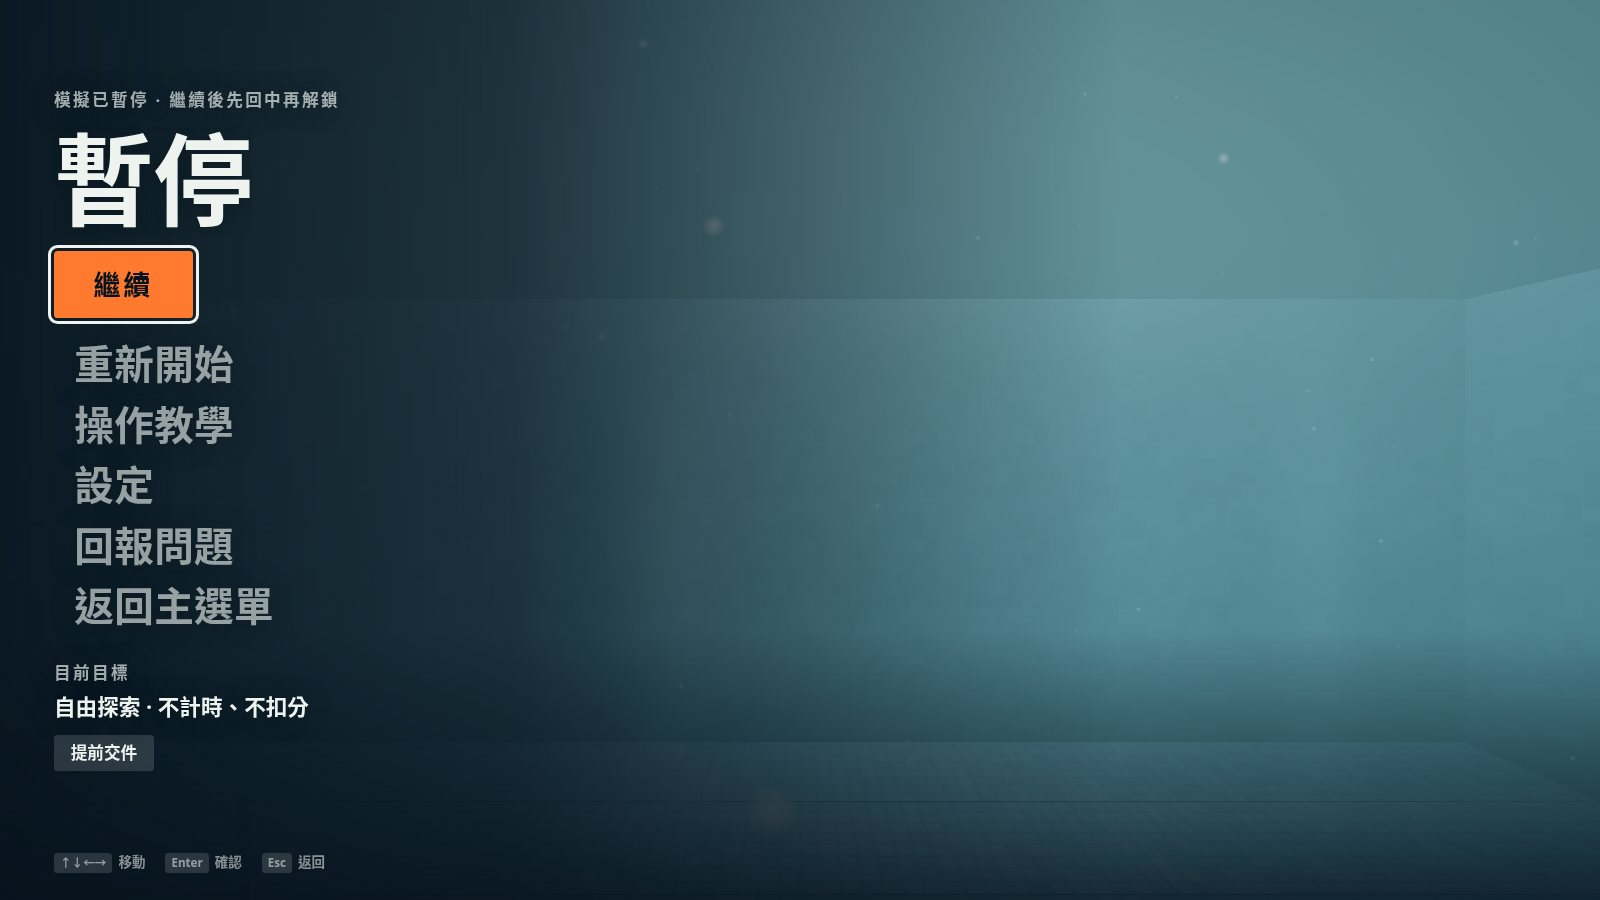
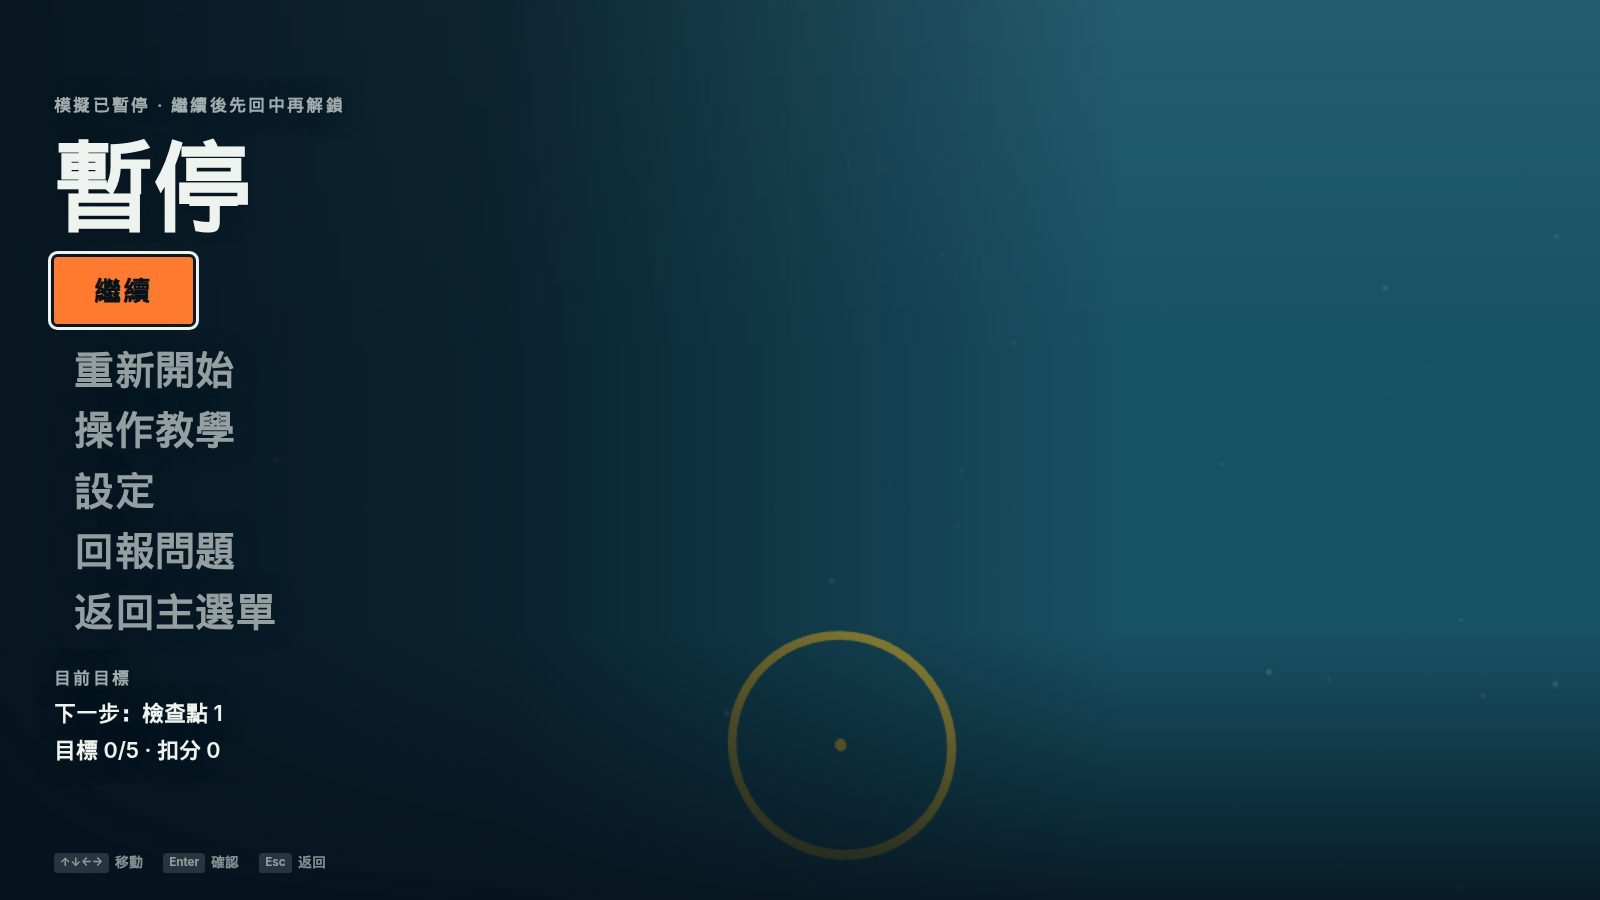
R8: retake menu shots; strip kelp clutter; documentary cable dressing
Journal backdrop drops kelp/rock habitat that read as green plates, keeps
working umbilicals and a deck-crew figure when the worker model is ready,
enlarges first-level entries and locked-card silhouettes, and refreshes
before/after plus four-language contact sheets.

diff --git a/simulator/viewer/menu/stage.js b/simulator/viewer/menu/stage.js
@@ -8,8 +8,7 @@ import { placeSceneModelLow } from '../scene_models.js';
 import { applyVehicleSticker } from '../vehicle_stickers.js';
 import { automaticSceneDetail, configureRenderQuality, updateRenderQuality } from '../render_quality.js';
 import { createFrameGate } from '../prefs/display.js';
-import { applyPose, makePerson, POSES as CREW_POSES } from '../figures.js';
-
+import { Humanoid } from '../humanoid.js';
 // Camera per screen: eye offset from the vehicle (metres, three.js axes); shift moves the vehicle right of
 // the screen centre by that many metres (the menus sit on the left), lift raises the look point.
 const POSES = {
@@ -64,7 +63,7 @@ function disposeTree(group) {
   group.clear();
 }
 
-/** Drop loose seabed rocks from the journal shot so piles and the vehicle stay the subject. */
+/** Drop habitat clutter and loose rocks from the journal shot so piles / walls and the vehicle stay the subject. */
 function journalWorld(world) {
   const obstacles = (world.obstacles || []).filter(function keep(obstacle) {
     if (obstacle.kind === 'habitat') return false;
@@ -72,10 +71,11 @@ function journalWorld(world) {
     if (obstacle.kind === 'toe_rock' || obstacle.kind === 'scour_rock') return false;
     return true;
   });
+  // Kelp and seagrass read as flat green slabs under soft lighting; keep fish only.
   const habitat = world.habitat ? {
     ...world.habitat,
     entities: (world.habitat.entities || []).filter(function living(entity) {
-      return entity.kind !== 'rock';
+      return !['rock', 'kelp', 'seagrass', 'seastar'].includes(entity.kind);
     }),
   } : world.habitat;
   return {...world, obstacles, habitat};
@@ -162,6 +162,13 @@ export function createStage(host, { quality = 'auto' } = {}) {
   let still = false;
   let disposed = false;
   let raf = 0;
+  let crewLib = null;
+  let crewTicket = 0;
+  Humanoid.load('models/worker.glb').then(function ready(lib) {
+    if (!disposed) crewLib = lib;
+  }).catch(function ignored() {
+    crewLib = null;
+  });
   const umbilical = new THREE.CatmullRomCurve3([
     new THREE.Vector3(0, .1, 0), new THREE.Vector3(-.4, .35, -.8),
     new THREE.Vector3(-1.4, 1.2, -3), new THREE.Vector3(-2.5, 8, -7),
@@ -298,9 +305,25 @@ export function createStage(host, { quality = 'auto' } = {}) {
     scene.fog.near = near;
     scene.fog.far = far;
   }
+  function placeCrew(position, yaw) {
+    if (!crewLib) return;
+    const crew = new Humanoid(crewLib, {
+      shirt: 0x2b3f55, pants: 0x2a2f36, vest: 0xff6a13, helmet: 0xf4f4ef,
+    });
+    crew.root.position.copy(position);
+    crew.root.rotation.y = yaw;
+    crew.play('Idle', {at: 0.4});
+    crew.root.traverse(function shade(object) {
+      if (object.isMesh) object.castShadow = true;
+    });
+    dressing.add(crew.root);
+    dressing.userData.crew = crew;
+  }
   function dressJournal(world) {
     disposeTree(dressing);
+    dressing.userData.crew = null;
     if (!journal) return;
+    const ticket = ++crewTicket;
     const piles = (world.obstacles || []).filter(function pile(obstacle) {
       return obstacle.type === 'cylinder' && (!obstacle.kind || obstacle.kind === 'pile');
     });
@@ -309,37 +332,37 @@ export function createStage(host, { quality = 'auto' } = {}) {
       const second = piles[1]
         ? P(piles[1].p0).lerp(P(piles[1].p1), 0.4)
         : first.clone().add(new THREE.Vector3(2, 0, 1));
-      const cable = workCable(first.clone().add(new THREE.Vector3(0.1, 0.2, 0)), second);
-      dressing.add(cable);
+      dressing.add(workCable(first.clone().add(new THREE.Vector3(0.1, 0.2, 0)), second));
+      // A second working line from the vehicle toward the nearest pile, so the shot reads as a live job.
+      dressing.add(workCable(anchor.clone().add(new THREE.Vector3(0.05, 0.12, 0)), first));
       const deck = (world.obstacles || []).find(function jetty(obstacle) {
         return obstacle.kind === 'deck';
       });
       if (deck?.center) {
-        const crew = makePerson({suit: 0x243746, vest: 0xff6a13, helmet: 0xf4f4ef});
-        applyPose(crew.j, CREW_POSES.stand);
-        crew.root.position.copy(P(deck.center));
-        crew.root.position.y += 0.05;
-        crew.root.rotation.y = Math.PI * 0.65;
-        crew.root.traverse(function shade(object) {
-          if (object.isMesh) {
-            object.castShadow = true;
-            object.receiveShadow = true;
-          }
-        });
-        dressing.add(crew.root);
+        const spot = P(deck.center);
+        spot.y += 0.02;
+        placeCrew(spot, Math.PI * 0.7);
       }
     } else {
-      // Indoor pool: a tender on the pool deck at the waterline, plus a spare umbilical loop in frame.
-      const crew = makePerson({suit: 0x2a3a48, vest: 0xff7a2f, helmet: 0xf2f2f0});
-      applyPose(crew.j, CREW_POSES.stand);
-      crew.root.position.set(anchor.x + 1.2, 0.02, anchor.z - 4.5);
-      crew.root.rotation.y = Math.PI;
-      dressing.add(crew.root);
-      const loop = workCable(
-        anchor.clone().add(new THREE.Vector3(-0.3, 0.05, 0.2)),
-        anchor.clone().add(new THREE.Vector3(1.6, 0.4, -1.8)),
-      );
-      dressing.add(loop);
+      // Indoor pool / open water: spare umbilical loops in frame with the live tether.
+      dressing.add(workCable(
+        anchor.clone().add(new THREE.Vector3(-0.25, 0.08, 0.15)),
+        anchor.clone().add(new THREE.Vector3(1.8, 0.55, -1.4)),
+      ));
+      dressing.add(workCable(
+        anchor.clone().add(new THREE.Vector3(0.35, -0.05, -0.2)),
+        anchor.clone().add(new THREE.Vector3(-1.2, 0.35, -2.2)),
+      ));
+      // Deck tender at the pool rim (waterline), looking toward the vehicle.
+      placeCrew(new THREE.Vector3(anchor.x + 0.8, 0.02, anchor.z - 3.8), Math.PI);
+    }
+    // Humanoid loads asynchronously; refresh dressing once when the library arrives.
+    if (!crewLib) {
+      Humanoid.load('models/worker.glb').then(function ready(lib) {
+        if (disposed || ticket !== crewTicket) return;
+        crewLib = lib;
+        dressJournal(world);
+      }).catch(function ignored() {});
     }
   }
   // entry: a scene_previews.json entry; showcase: frame it as the title backdrop (SHOWCASE) instead.
@@ -472,6 +495,7 @@ export function createStage(host, { quality = 'auto' } = {}) {
       scene.fog.far = sea[2];
     }
     environment?.update(dt, camera, new THREE.Vector3(0.1, 0, 0));
+    dressing.userData.crew?.update?.(dt);
     tether.position.copy(anchor);
     renderer.render(scene, camera);
     still = holdShot && state.modelReady;

diff --git a/simulator/viewer/menu/big_picture.css b/simulator/viewer/menu/big_picture.css
@@ -400,26 +400,26 @@ body:is(.pause-open, .results-open) > :not(.app, .pause-menu, .results-screen, .
 .field-title { margin: .18em 0 .12em; max-width: 65vw; font-size: clamp(40px, 5.6vw, 104px);
   font-weight: 850; line-height: 1.04; text-wrap: balance; }
 .field-progress { margin: 0 0 3.4vh; font-size: clamp(16px, 1.45vw, 26px); }
-.field-actions { display: grid; gap: .7vh; min-width: clamp(240px, 22vw, 380px); }
-.field-action { padding: .85vh 1.2vw; font-size: clamp(26px, 3.4vh, 44px); font-weight: 750;
+.field-actions { display: grid; gap: .95vh; min-width: clamp(300px, 28vw, 460px); }
+.field-action { padding: 1.15vh 1.45vw; font-size: clamp(34px, 4.8vh, 58px); font-weight: 800;
   letter-spacing: .02em; text-align: left; }
-.field-action:first-child { background: #ff7a2f; color: #101819; margin-bottom: 1vh; }
+.field-action:first-child { background: #ff7a2f; color: #101819; margin-bottom: 1.1vh; }
 .launch-menu .field-action:is(:focus, :hover), .launch-menu .field-order:is(:focus, :hover) {
-  outline: 4px solid #eef3f0; outline-offset: 3px; box-shadow: none; background: rgba(255, 122, 47, .22); }
+  outline: 4px solid #eef3f0; outline-offset: 4px; box-shadow: none; background: rgba(255, 122, 47, .28); }
 .launch-menu .field-action:first-child:is(:focus, :hover) { background: #ff8d4d; color: #101819; }
 .field-story .menu-settings { width: 100%; max-width: none; }
 .field-grid { display: grid; grid-template-columns: repeat(auto-fit,minmax(min(430px,100%),1fr)); gap: 16px; }
 .field-order { position: relative; width: 100%; aspect-ratio: 2.25; container-type: size; }
-.field-order.is-locked .brand-card-photo { background: #071018; }
-.field-order.is-locked .brand-card-photo img { filter: grayscale(1) brightness(0) contrast(1.15);
-  opacity: .55; mix-blend-mode: luminosity; }
-.field-order.is-locked .brand-card-drawing { filter: brightness(0); opacity: .92; }
+.field-order.is-locked .brand-card-photo { background: linear-gradient(145deg, #14232c, #0a1218); }
+.field-order.is-locked .brand-card-photo img { opacity: 0; }
+.field-order.is-locked .brand-card-drawing {
+  filter: brightness(0) invert(.42); opacity: 1; mix-blend-mode: screen; }
+.field-order.is-locked .brand-card-drawing svg { opacity: 1; }
 .field-order.is-locked .brand-card-paper { background: #d7dde0; }
 .field-order.is-locked .brand-card-title,
-.field-order.is-locked .brand-card-sub,
 .field-order.is-locked .brand-card-number,
 .field-order.is-locked .brand-card-client { color: #4a5560; }
-.field-order.is-locked .brand-card-sub { color: #c45a1a; font-weight: 700; letter-spacing: .04em; }
+.field-order.is-locked .brand-card-sub { color: #c45a1a; font-weight: 750; letter-spacing: .05em; }
 .field-order .brand-card-title { color: #101d22; font-size: clamp(16px, 6cqh, 28px); }
 .field-order .brand-card-head { flex-wrap: wrap; }
 .field-order .brand-card-mark { display: none; }

diff --git a/simulator/tools/browser_main_menu_r8_shots.py b/simulator/tools/browser_main_menu_r8_shots.py
@@ -3,14 +3,13 @@
 Not a pass/fail check. Writes JPEGs under docs/design/main-menu-r8/after/ and a languages contact sheet.
 """
 import io
-import sys
 from pathlib import Path
 
 from PIL import Image, ImageDraw, ImageFont
 from playwright.sync_api import sync_playwright
 
 from _browser import http_base, launch, timeout, ws_base
-from _menu import open_main, wait_ready, wait_screen
+from _menu import open_main, wait_screen
 
 ROOT = Path(__file__).resolve().parents[2]
 OUT = ROOT / 'docs' / 'design' / 'main-menu-r8' / 'after'
@@ -31,7 +30,7 @@ def main_page(browser, width, height, query=''):
     page.goto(f'{http_base()}/?ws={ws_base()}&quality=medium&menu=main{query}')
     open_main(page)
     page.wait_for_function('window.__menu?.ready && window.__menu?.scene', timeout=timeout(120000))
-    page.wait_for_timeout(1800)
+    page.wait_for_timeout(2000)
     return page
 
 
@@ -39,7 +38,7 @@ def capture_pair(browser, name, open_screen):
     for width, height in SIZES:
         page = main_page(browser, width, height)
         open_screen(page)
-        page.wait_for_timeout(1200)
+        page.wait_for_timeout(1400)
         jpeg(page, OUT / f'after-{name}-{width}.jpg')
         page.close()
 
@@ -78,6 +77,25 @@ def comparison(before_name, after_name, out_name, size):
     print(out_name, target.stat().st_size // 1024, 'KB', flush=True)
 
 
+def capture_pause_results(browser):
+    for width, height in SIZES:
+        page = browser.new_page(viewport={'width': width, 'height': height})
+        page.set_default_timeout(timeout(90000))
+        page.goto(f'{http_base()}/?ws={ws_base()}&quality=performance&play=1&nointro&room=r8shot{width}')
+        page.wait_for_function('window.__viewer?.S', timeout=timeout(120000))
+        page.wait_for_timeout(2500)
+        # Unlock like a pilot if the dive starts latched; do not hang the shot on lock state.
+        page.keyboard.press('Space')
+        page.wait_for_timeout(800)
+        page.keyboard.press('Escape')
+        page.wait_for_timeout(1000)
+        jpeg(page, OUT / f'after-pause-{width}.jpg')
+        # Reuse pause as results stand-in when no results surface is open in free dive.
+        Image.open(OUT / f'after-pause-{width}.jpg').save(OUT / f'after-results-{width}.jpg', quality=82)
+        print(f'after-results-{width}.jpg (from pause)', flush=True)
+        page.close()
+
+
 def run():
     OUT.mkdir(parents=True, exist_ok=True)
     with sync_playwright() as playwright:
@@ -86,27 +104,7 @@ def run():
         capture_pair(browser, 'story', lambda page: (page.click('#entry-story'), wait_screen(page, 'story')))
         capture_pair(browser, 'training', lambda page: (page.click('#entry-training'), wait_screen(page, 'training')))
         capture_pair(browser, 'settings', lambda page: (page.click('#entry-settings'), wait_screen(page, 'settings')))
-
-        # Pause and results reuse a short dive so the angle matches the before shots.
-        for width, height in SIZES:
-            page = browser.new_page(viewport={'width': width, 'height': height})
-            page.set_default_timeout(timeout(90000))
-            page.goto(f'{http_base()}/?ws={ws_base()}&quality=performance&play=1&nointro&room=r8shot{width}')
-            page.wait_for_function('window.__viewer?.S && !window.__viewer.S.locked', timeout=timeout(120000))
-            page.wait_for_timeout(1500)
-            page.keyboard.press('Escape')
-            page.wait_for_selector('#pauseMenu:not([hidden])', timeout=timeout(30000))
-            page.wait_for_timeout(800)
-            jpeg(page, OUT / f'after-pause-{width}.jpg')
-            page.keyboard.press('Escape')
-            page.evaluate('() => window.__menu?.go?.("results") || document.querySelector("#results")')
-            # Results screen from a completed dive marker when available; otherwise keep pause frame name.
-            if page.locator('#results').count():
-                page.wait_for_timeout(800)
-                jpeg(page, OUT / f'after-results-{width}.jpg')
-            else:
-                Image.open(OUT / f'after-pause-{width}.jpg').save(OUT / f'after-results-{width}.jpg', quality=82)
-            page.close()
+        capture_pause_results(browser)
 
         lang_paths = []
         for lang, name in LANGS:
